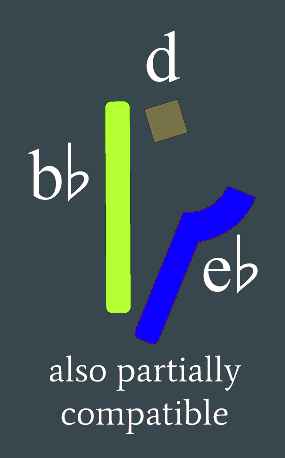
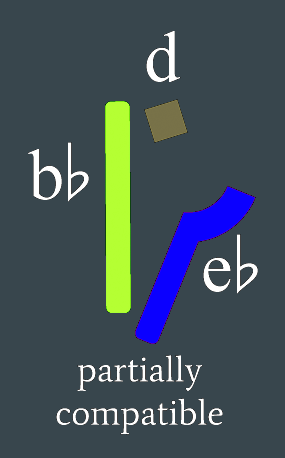
Deploy from Forestry.io

Changed region(s): [[0.1684, 0.7642, 0.8421, 0.9476]]

diff --git a/affinities/work4/index.html b/affinities/work4/index.html
@@ -2,7 +2,7 @@
 <html lang="en-us">
 <head><meta charset="utf-8">
 <meta http-equiv="X-UA-Compatible" content="IE=edge">
-<title>also partially compatible</title>
+<title>fully incompatible</title>
 <meta name="description" content="The Tonal Ligand">
 <meta name="viewport" content="width=device-width, initial-scale=1">
 <meta name="robots" content="all,follow">
@@ -118,7 +118,7 @@ hugo bootstrapious template by <a href="https://github.com/kishaningithub">kisha
   <div class="row">
     <div class="col-lg-8">
       <div class="content-column-content">
-         <h1>also partially compatible</h1>
+         <h1>fully incompatible</h1>
 
           
           <P>
@@ -129,7 +129,7 @@ hugo bootstrapious template by <a href="https://github.com/kishaningithub">kisha
           
 
 
-         <p>A ligand may only be compatible with the second of two receptor parts, while the other part remains incompatible with the ligand. </p>
+         <p>A ligand may be fully incompatible with receptor, and fail to bind with either of the two sections. </p>
 
 <p><audio src="/audio/a2002011001-e02-128k.mp3" autoplay>
 Sorry, your browser does not support the <audio> element.
@@ -137,9 +137,13 @@ Sorry, your browser does not support the <audio> element.
 
 <p></p>
 
-<p>Sid and Greta are playing in rhythmic unison again as the two parts of the receptor, but this time their notes are different- they are 7 notes apart. (Sid and Greta demonstrate 7th). Nick, Chris, and John are again rhythmically erratic ligands wandering outside of the cell. This time, Chris will attempt to bind with the receptor by matching its rhythm. Because Chris’s note is a consonant with only one of the two receptor parts (Chris and Sid demonstrate major 3rd) and incompatible with the other receptor half (Chris and Greta demonstrate tritone), it results in an incomplete binding- a 7th chord, which isn’t “ugly” to hear, but not technically dissonant. Nick and John here are two non-binding, rhythmically independent ligands. </p>
+<p><audio controls>
+    <source src="/audio/a2002011001-e02-128k.mp3" type="audio/mpeg">
+    <source src="/audio/a2002011001-e02-128k.ogg" type="audio/ogg">
+    Your browser does not support the audio tag.
+</audio></p>
 
-<p>DEMONSTRATE PART 1C </p>
+<p>Here, Sid and Greta will again play the two prongs of the receptor, using the same two notes as before, and again playing in rhythmic unison. (Demonstrate perfect 5th again.) Nick, Chris, and John are again playing ligands, represented by the same notes as before. The difference is that, this time, one of the ligands with an incompatible, dissonant non-chord tone will attempt to bind with the receptor, and neither receptor part sounds harmonious with this rogue ligand. In this case, the ligand attempting to bind is John. (Demonstrate each receptor note with ligand one at a time, then all three together.) The other two ligands will continue to exist without interacting with the cell, and will not bind rhythmically to the receptor. DEMONSTRATE PART 1B </p>
          <div id="disqus_thread"></div>
 <script>
     var disqus_config = function () {

diff --git a/affinities/work2/index.html b/affinities/work2/index.html
@@ -2,7 +2,7 @@
 <html lang="en-us">
 <head><meta charset="utf-8">
 <meta http-equiv="X-UA-Compatible" content="IE=edge">
-<title>fully incompatible</title>
+<title>partially compatible</title>
 <meta name="description" content="The Tonal Ligand">
 <meta name="viewport" content="width=device-width, initial-scale=1">
 <meta name="robots" content="all,follow">
@@ -118,7 +118,7 @@ hugo bootstrapious template by <a href="https://github.com/kishaningithub">kisha
   <div class="row">
     <div class="col-lg-8">
       <div class="content-column-content">
-         <h1>fully incompatible</h1>
+         <h1>partially compatible</h1>
 
           
           <P>
@@ -129,7 +129,7 @@ hugo bootstrapious template by <a href="https://github.com/kishaningithub">kisha
           
 
 
-         <p>A ligand may be fully incompatible with receptor, and fail to bind with either of the two sections. </p>
+         <p>A ligand may only be compatible with one of the two receptor parts, while the other part remains incompatible with the ligand. </p>
 
 <p><audio src="/audio/a2002011001-e02-128k.mp3" autoplay>
 Sorry, your browser does not support the <audio> element.
@@ -137,13 +137,9 @@ Sorry, your browser does not support the <audio> element.
 
 <p></p>
 
-<p><audio controls>
-    <source src="/audio/a2002011001-e02-128k.mp3" type="audio/mpeg">
-    <source src="/audio/a2002011001-e02-128k.ogg" type="audio/ogg">
-    Your browser does not support the audio tag.
-</audio></p>
+<p>Sid and Greta are playing in rhythmic unison again as the two parts of the receptor, but this time their notes are different- they are 7 notes apart. (Sid and Greta demonstrate 7th). Nick, Chris, and John are again rhythmically erratic ligands wandering outside of the cell. This time, Chris will attempt to bind with the receptor by matching its rhythm. Because Chris’s note is a consonant with only one of the two receptor parts (Chris and Sid demonstrate major 3rd) and incompatible with the other receptor half (Chris and Greta demonstrate tritone), it results in an incomplete binding- a 7th chord, which isn’t “ugly” to hear, but not technically dissonant. Nick and John here are two non-binding, rhythmically independent ligands. </p>
 
-<p>Here, Sid and Greta will again play the two prongs of the receptor, using the same two notes as before, and again playing in rhythmic unison. (Demonstrate perfect 5th again.) Nick, Chris, and John are again playing ligands, represented by the same notes as before. The difference is that, this time, one of the ligands with an incompatible, dissonant non-chord tone will attempt to bind with the receptor, and neither receptor part sounds harmonious with this rogue ligand. In this case, the ligand attempting to bind is John. (Demonstrate each receptor note with ligand one at a time, then all three together.) The other two ligands will continue to exist without interacting with the cell, and will not bind rhythmically to the receptor. DEMONSTRATE PART 1B </p>
+<p>DEMONSTRATE PART 1C </p>
          <div id="disqus_thread"></div>
 <script>
     var disqus_config = function () {

diff --git a/affinities/index.html b/affinities/index.html
@@ -164,11 +164,11 @@ Sorry, your browser does not support the <audio> element.
                       
                       <div class="box-masonry-text">
                       
-                          <h4><a href="https://the-tonal-ligand.com/affinities/work2/">fully incompatible</a></h4>
+                          <h4><a href="https://the-tonal-ligand.com/affinities/work2/">partially compatible</a></h4>
                           <div class="box-masonry-description">
                             <p>
                                 
-                                  <p>A ligand may be fully incompatible with receptor, and fail to bind with either of the two sections. </p>
+                                  <p>A ligand may only be compatible with one of the two receptor parts, while the other part remains incompatible with the ligand. </p>
 
 <p><audio src="/audio/a2002011001-e02-128k.mp3" autoplay>
 Sorry, your browser does not support the <audio> element.
@@ -194,11 +194,11 @@ Sorry, your browser does not support the <audio> element.
                       
                       <div class="box-masonry-text">
                       
-                          <h4><a href="https://the-tonal-ligand.com/affinities/work3/">partially compatible</a></h4>
+                          <h4><a href="https://the-tonal-ligand.com/affinities/work3/">also partially compatible</a></h4>
                           <div class="box-masonry-description">
                             <p>
                                 
-                                  <p>A ligand may only be compatible with one of the two receptor parts, while the other part remains incompatible with the ligand. </p>
+                                  <p>A ligand may only be compatible with the second of two receptor parts, while the other part remains incompatible with the ligand. </p>
 
 <p><audio src="/audio/a2002011001-e02-128k.mp3" autoplay>
 Sorry, your browser does not support the <audio> element.
@@ -224,11 +224,11 @@ Sorry, your browser does not support the <audio> element.
                       
                       <div class="box-masonry-text">
                       
-                          <h4><a href="https://the-tonal-ligand.com/affinities/work4/">also partially compatible</a></h4>
+                          <h4><a href="https://the-tonal-ligand.com/affinities/work4/">fully incompatible</a></h4>
                           <div class="box-masonry-description">
                             <p>
                                 
-                                  <p>A ligand may only be compatible with the second of two receptor parts, while the other part remains incompatible with the ligand. </p>
+                                  <p>A ligand may be fully incompatible with receptor, and fail to bind with either of the two sections. </p>
 
 <p><audio src="/audio/a2002011001-e02-128k.mp3" autoplay>
 Sorry, your browser does not support the <audio> element.

diff --git a/affinities/work3/index.html b/affinities/work3/index.html
@@ -2,7 +2,7 @@
 <html lang="en-us">
 <head><meta charset="utf-8">
 <meta http-equiv="X-UA-Compatible" content="IE=edge">
-<title>partially compatible</title>
+<title>also partially compatible</title>
 <meta name="description" content="The Tonal Ligand">
 <meta name="viewport" content="width=device-width, initial-scale=1">
 <meta name="robots" content="all,follow">
@@ -118,7 +118,7 @@ hugo bootstrapious template by <a href="https://github.com/kishaningithub">kisha
   <div class="row">
     <div class="col-lg-8">
       <div class="content-column-content">
-         <h1>partially compatible</h1>
+         <h1>also partially compatible</h1>
 
           
           <P>
@@ -129,7 +129,7 @@ hugo bootstrapious template by <a href="https://github.com/kishaningithub">kisha
           
 
 
-         <p>A ligand may only be compatible with one of the two receptor parts, while the other part remains incompatible with the ligand. </p>
+         <p>A ligand may only be compatible with the second of two receptor parts, while the other part remains incompatible with the ligand. </p>
 
 <p><audio src="/audio/a2002011001-e02-128k.mp3" autoplay>
 Sorry, your browser does not support the <audio> element.
